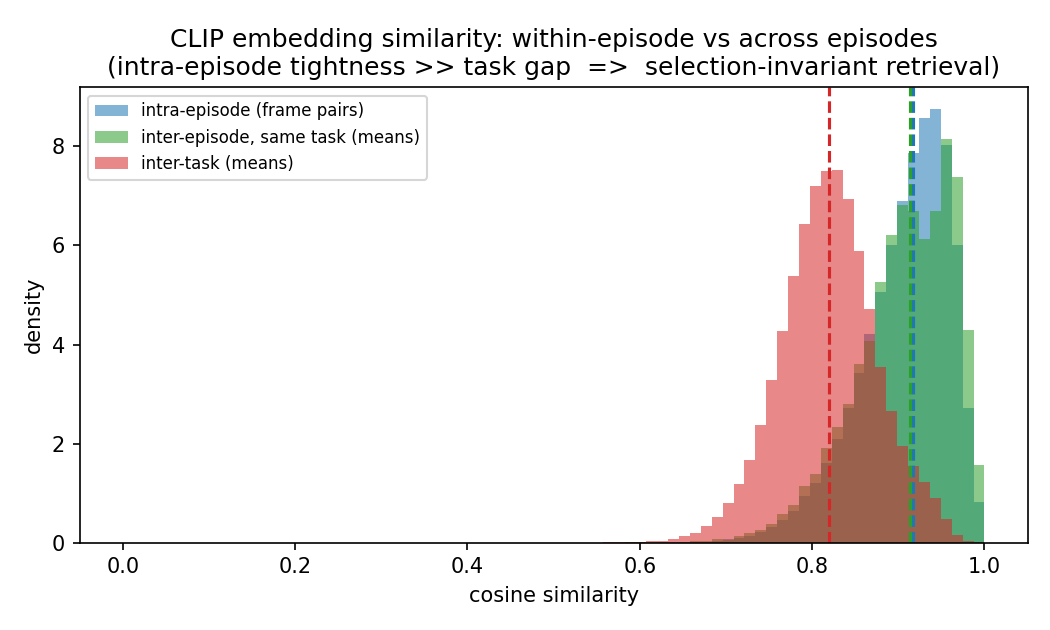
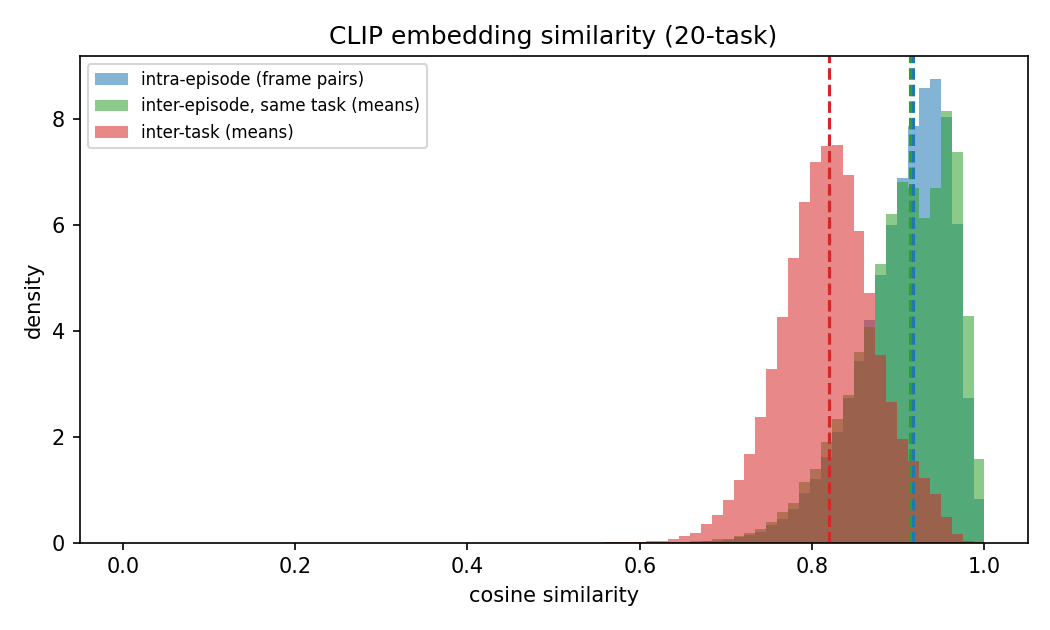
fig5: plain scale-labelled title 'CLIP embedding similarity (N-task)'
Replace the verbose editorializing title ('within-episode vs across episodes
/ ... selection-invariant retrieval') with a plain 'CLIP embedding similarity
({n}-task)', deriving the task count from the bundle so it stays correct at any
scale (20-task bundle -> '(20-task)'). Regenerated from results/bundle:
histograms, median lines, axis labels, legend, and colors unchanged; committed
table data untouched (only the figure differs).

diff --git a/scripts/diagnostics/similarity_distributions.py b/scripts/diagnostics/similarity_distributions.py
@@ -131,8 +131,7 @@ def main() -> None:
             ax.axvline(np.median(v), color=color, lw=1.5, ls="--")
     ax.set_xlabel("cosine similarity")
     ax.set_ylabel("density")
-    ax.set_title("CLIP embedding similarity: within-episode vs across episodes\n"
-                 "(intra-episode tightness >> task gap  =>  selection-invariant retrieval)")
+    ax.set_title(f"CLIP embedding similarity ({len(set(b.ep_task.values()))}-task)")
     ax.legend(fontsize=8, loc="upper left")
     fig.tight_layout()
     for ext in ("pdf", "png"):
